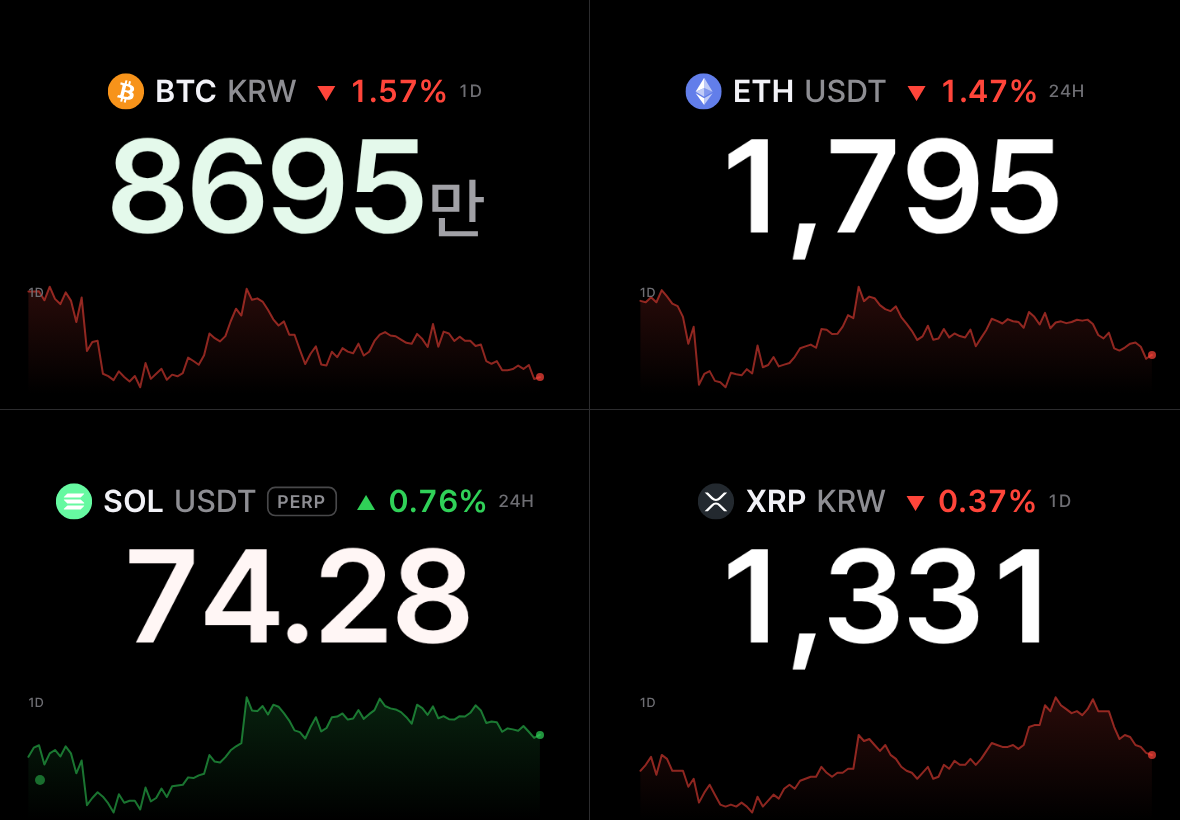
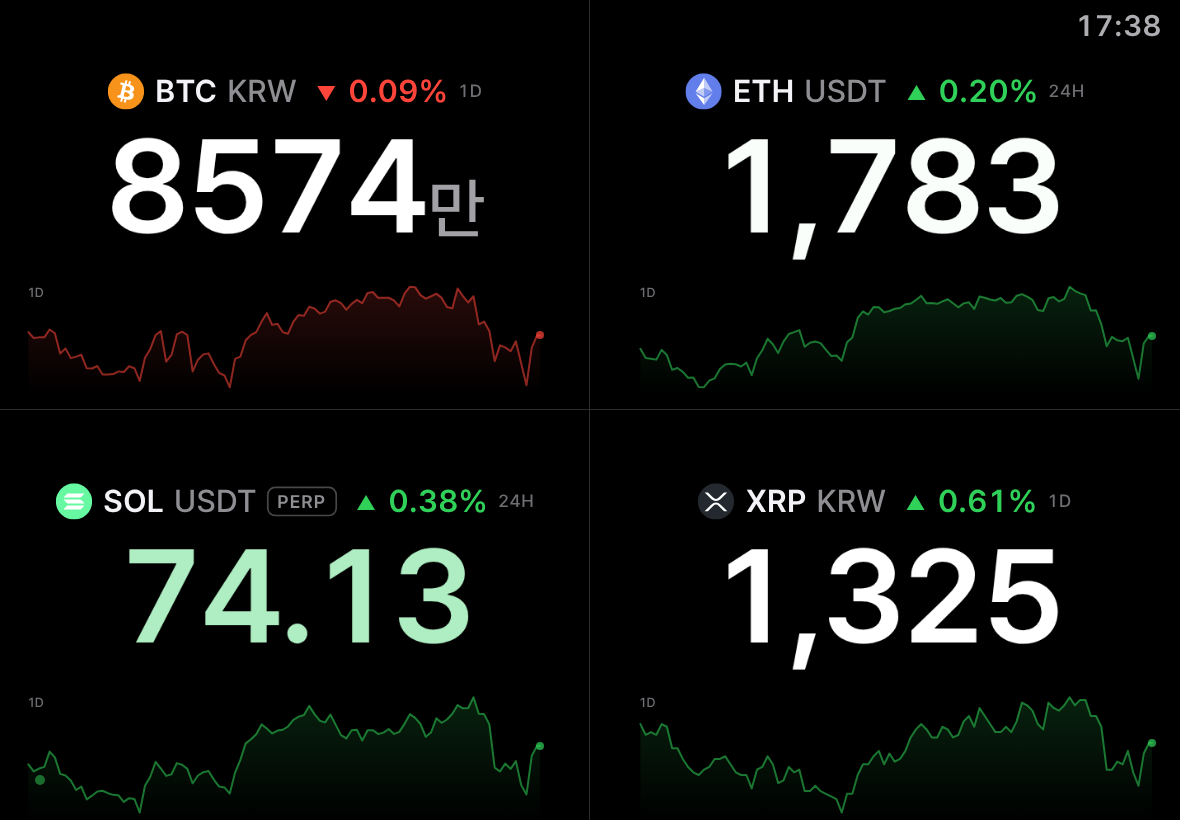
전광판 오른쪽 위에 시계 (0.28.0) (#56)
* A clock in the board's top-right corner (0.28.0)

The time, as hours and minutes in 24-hour form, from the device's own clock
and time zone, renewed on the minute. It sits small in the top-right
corner, in a grey that reads across a room (its size follows the screen's
short side), floats with the board under burn-in protection and dims with
it. A Clock switch in settings, on by default (setting `clock`). A new e2e
scenario checks its place, the minute changing, the float and the switch.
Guide, development notes and screenshots follow.

Claude-Session: https://claude.ai/code/session_014Sd3YL2WJ32HMbCc4VV95J

* Chart test: let the test clock run while waiting on Upbit's turn

The chart scenario waited on real time for things that come only as the
test clock moves (Upbit's candles wait their turn behind its other
requests; the board shows a price at most every three seconds), and on a
slow runner a fixed clock step fell short. untilTicking runs the clock a
second at a time while it waits.

Claude-Session: https://claude.ai/code/session_014Sd3YL2WJ32HMbCc4VV95J

---------

diff --git a/tests/e2e/run.js b/tests/e2e/run.js
@@ -113,6 +113,15 @@ const live = page => page.waitForFunction(() => {
 });
 // waitForFunction treats an async predicate's Promise as truthy at once, so
 // async conditions are polled from here instead.
+// Like until, for a page on the test clock: the clock is run a second at a
+// time while waiting, for what waits its turn behind Upbit's other requests.
+async function untilTicking(page, predicate, arg) {
+  for (let step = 0; step < 60; step += 1) {
+    if (await page.evaluate(predicate, arg)) return;
+    await page.clock.runFor(1000);
+  }
+  throw new Error('Condition not met within 60 seconds of the test clock');
+}
 async function until(page, predicate, arg) {
   for (const deadline = Date.now() + 30000; Date.now() < deadline;) {
     if (await page.evaluate(predicate, arg)) return;
@@ -393,7 +402,7 @@ async function board(browser, base, flags) {
   assert.equal(await brightnessThumb.getAttribute('aria-valuenow'), '50');
   assert.equal(await shownBrightness(page), 'brightness(50%)');
   assert.equal(await text(page, '#brightness-value'), '50%');
-  assert.deepEqual(await saved(page), { assets: [{ currency: 'USDT', ticker: 'ETH' }], columns: 0, brightness: 50, burnIn: true, palette: 'green-red', chart: '1d' });
+  assert.deepEqual(await saved(page), { assets: [{ currency: 'USDT', ticker: 'ETH' }], columns: 0, brightness: 50, burnIn: true, palette: 'green-red', chart: '1d', clock: true });
   // Up and down colours: green and red, or the Korean red and blue.
   const colourOf = id => page.locator(id).evaluate(el => getComputedStyle(el).color);
   await page.waitForFunction(() => getComputedStyle(document.getElementById('change')).color === 'rgb(48, 209, 88)');
@@ -1164,9 +1173,8 @@ async function chart(browser, base) {
   const page = await context.newPage(); const problems = watch(page);
   // The test clock: Upbit's ten seconds between requests pass at once.
   await page.clock.install(); await page.goto(base); await live(page);
-  await page.clock.runFor(12000);
   // On by default, for a day: the chart behind the lower screen, coloured as the change, with its period.
-  await page.locator('#board-chart .spark').waitFor();
+  await untilTicking(page, () => !!document.querySelector('#board-chart .spark'));
   assert.match(asked[0], /candles\/minutes\/15\?market=KRW-BTC&count=97$/);
   // The day's candles rose, but the change shown is -2.50%: the chart takes the change's colour, so the two agree.
   assert.equal(await page.locator('#board-chart .spark').getAttribute('class'), 'spark down');
@@ -1180,20 +1188,17 @@ async function chart(browser, base) {
   assert.equal(await page.locator('#board-chart .spark-point').count(), 1);
   assert.equal(await page.locator('#board-chart .spark-ring').count(), 0, 'no ring before the price moves');
   await page.evaluate(() => sockets.at(-1).quote({ trade_price: 98600000 }));
-  await page.clock.runFor(3100);
-  await page.locator('#board-chart .spark-ring').waitFor({ state: 'attached' });
+  await untilTicking(page, () => !!document.querySelector('#board-chart .spark-ring'));
   assert.deepEqual(await page.locator('#board-chart .spark-ring').evaluate(el => [el.className, el.dataset.strength, getComputedStyle(el).animationName]), ['spark-ring up', '3', 'spark-ring']);
   await page.evaluate(() => sockets.at(-1).quote({ trade_price: 98590000 }));
-  await page.clock.runFor(3100);
-  await until(page, () => document.querySelector('#board-chart .spark-ring')?.className === 'spark-ring down');
+  await untilTicking(page, () => document.querySelector('#board-chart .spark-ring')?.className === 'spark-ring down');
   assert.equal(await page.locator('#board-chart .spark-ring').getAttribute('data-strength'), '1', 'a slight move, a small ring');
   // Another period asks for other candles; off takes the chart away.
   await open(page);
   assert.equal(await chosen(page, '#admin-chart'), '1d');
   assert.deepEqual(await page.locator('#admin-chart [data-value]').allTextContents(), ['끔', '15분', '1시간', '1일', '1주', '1달']);
   await choose(page, '#admin-chart', '1w');
-  await page.clock.runFor(12000);
-  await until(page, () => document.querySelector('#board-chart .spark-label')?.textContent === '7D');
+  await untilTicking(page, () => document.querySelector('#board-chart .spark-label')?.textContent === '7D');
   assert.match(asked.at(-1), /candles\/minutes\/60\?market=KRW-BTC&count=169$/);
   assert.equal((await saved(page)).chart, '1w');
   await choose(page, '#admin-chart', 'off');
@@ -1202,8 +1207,7 @@ async function chart(browser, base) {
   await choose(page, '#admin-chart', '1d');
   await page.locator('#asset-add').click(); await page.locator('#asset-new-confirm').click();
   // The new coin's candles wait their turn behind Upbit's other requests: let the test clock run until they come.
-  for (let step = 0; step < 40 && await page.evaluate(() => document.querySelectorAll('#chart-grid .spark').length) < 2; step += 1) await page.clock.runFor(1000);
-  await until(page, () => document.querySelectorAll('#chart-grid .spark').length === 2);
+  await untilTicking(page, () => document.querySelectorAll('#chart-grid .spark').length === 2);
   assert.ok(await page.evaluate(chartsHold), 'cell charts hold still, below their prices and clear of the lines between cells however the grid floats');
   await page.keyboard.press('Escape');
   await page.screenshot({ path: path.join(evidence, 'chart.png') });
@@ -1246,6 +1250,33 @@ async function lockedStorage(browser, base) {
   assert.deepEqual(problems, []);
   await context.close();
   console.log('PASS locked storage: defaults, live price, unsaved change applies for the session');
+}
+
+async function clockShown(browser, base) {
+  // The time in the top-right corner, from the device's own clock and time zone, renewed on the minute; switched off in settings.
+  const context = await browser.newContext({ viewport: { width: 1180, height: 820 }, timezoneId: 'Asia/Seoul' }); await scripted(context);
+  const page = await context.newPage(); const problems = watch(page);
+  await page.clock.install({ time: new Date('2026-11-19T14:32:50+09:00') });
+  await page.goto(base); await live(page);
+  assert.equal(await text(page, '#clock'), '14:32');
+  const box = await page.locator('#clock').boundingBox();
+  assert.ok(box.x + box.width > 1180 - 80 && box.y < 40, 'top-right corner');
+  const price = await page.locator('#price-main').boundingBox(), head = await page.locator('#board-head').boundingBox();
+  assert.ok(box.y + box.height < head.y && box.y + box.height < price.y, 'clear of the coin line and the price');
+  await page.clock.runFor(15000);
+  assert.equal(await text(page, '#clock'), '14:33', 'renewed on the minute');
+  // It floats with the board when burn-in protection is on.
+  assert.equal(await page.locator('#clock').evaluate(el => el.style.transform.startsWith('translate(')), true);
+  await open(page);
+  assert.equal(await page.locator('#admin-clock').getAttribute('aria-checked'), 'true');
+  await page.locator('#admin-clock').click();
+  assert.equal(await page.locator('#clock').count(), 0);
+  assert.equal((await saved(page)).clock, false);
+  await page.locator('#admin-clock').click();
+  assert.equal(await text(page, '#clock'), '14:33');
+  assert.deepEqual(problems, []);
+  await context.close();
+  console.log('PASS clock: the time in the top-right corner, from the device clock, renewed on the minute, floating with the board, switched off and on in settings');
 }
 
 async function swipeBrightness(browser, base) {
@@ -1517,7 +1548,7 @@ browser.newContext = (options = {}) => newContext({ locale: 'ko-KR', ...options 
 // Scenarios run side by side, a few at a time (E2E_JOBS, default 4), each
 // against its own server. A failure is reported with the scenario's name;
 // the others still run.
-const scenarios = [board, english, help, install, oled, popOut, chart, firstConnection, gridBoard, statusTipOnTouch, swipeBrightness, idleUpdate, lockedStorage, coinList, offlineShell, layouts];
+const scenarios = [board, english, help, install, oled, popOut, chart, firstConnection, gridBoard, statusTipOnTouch, swipeBrightness, clockShown, idleUpdate, lockedStorage, coinList, offlineShell, layouts];
 if (process.env.LIVE_NETWORK === '1') scenarios.push(liveExchanges);
 // E2E_ONLY=chart,board runs just those.
 const only = process.env.E2E_ONLY?.split(',');

diff --git a/tests/unit/settings.test.js b/tests/unit/settings.test.js
@@ -7,7 +7,7 @@ function memory(initial = {}) {
     removeItem: key => { data.delete(key); } };
 }
 const one = (ticker, currency) => ({ assets: [{ currency, ticker }] });
-const defaults = { ...one('BTC', 'USDT'), columns: 0, brightness: 100, burnIn: true, palette: 'green-red', chart: '1d' };
+const defaults = { ...one('BTC', 'USDT'), columns: 0, brightness: 100, burnIn: true, palette: 'green-red', chart: '1d', clock: true };
 test('defaults when storage is empty, missing or throws: Bitcoin on Binance spot', () => {
   assert.deepEqual(createSettings(memory()).get(), defaults);
   assert.deepEqual(createSettings(null).get(), defaults);
@@ -16,15 +16,15 @@ test('defaults when storage is empty, missing or throws: Bitcoin on Binance spot
 });
 test('settings saved before the grid (one coin) are read as one asset; invalid fields are ignored', () => {
   const store = memory({ 'coinboard-settings': JSON.stringify({ ticker: 'eth', currency: 'EUR', brightness: 5 }) });
-  assert.deepEqual(createSettings(store).get(), { ...one('ETH', 'USDT'), columns: 0, brightness: 100, burnIn: true, palette: 'green-red', chart: '1d' });
+  assert.deepEqual(createSettings(store).get(), { ...one('ETH', 'USDT'), columns: 0, brightness: 100, burnIn: true, palette: 'green-red', chart: '1d', clock: true });
   const full = memory({ 'coinboard-settings': JSON.stringify({ ticker: 'XRP', currency: 'USDT', brightness: 55 }) });
-  assert.deepEqual(createSettings(full).get(), { ...one('XRP', 'USDT'), columns: 0, brightness: 55, burnIn: true, palette: 'green-red', chart: '1d' });
+  assert.deepEqual(createSettings(full).get(), { ...one('XRP', 'USDT'), columns: 0, brightness: 55, burnIn: true, palette: 'green-red', chart: '1d', clock: true });
 });
 test('update persists the merged settings', () => {
   const store = memory(); const settings = createSettings(store);
   assert.deepEqual(settings.update({ assets: [{ currency: 'USDT', ticker: 'BTC' }], brightness: 40 }), { saved: true });
-  assert.deepEqual(JSON.parse(store.getItem('coinboard-settings')), { ...one('BTC', 'USDT'), columns: 0, brightness: 40, burnIn: true, palette: 'green-red', chart: '1d' });
-  assert.deepEqual(createSettings(store).get(), { ...one('BTC', 'USDT'), columns: 0, brightness: 40, burnIn: true, palette: 'green-red', chart: '1d' });
+  assert.deepEqual(JSON.parse(store.getItem('coinboard-settings')), { ...one('BTC', 'USDT'), columns: 0, brightness: 40, burnIn: true, palette: 'green-red', chart: '1d', clock: true });
+  assert.deepEqual(createSettings(store).get(), { ...one('BTC', 'USDT'), columns: 0, brightness: 40, burnIn: true, palette: 'green-red', chart: '1d', clock: true });
 });
 test('a failed write still applies for this run', () => {
   const settings = createSettings({ getItem: () => null, setItem() { throw new Error('quota'); }, removeItem() {} });

diff --git a/src/lib/settings.js b/src/lib/settings.js
@@ -36,8 +36,9 @@ function readAssets(list) {
 }
 export function createSettings(storage) {
   // columns: cells per row in the grid; 0 lets the board choose (see PriceBoard).
-  // chart: the period of the line chart beside the change ("off" for none).
-  const settings = { assets: [{ ...DEFAULT_ASSET }], columns: 0, brightness: 100, burnIn: true, palette: "green-red", chart: "1d" };
+  // chart: the period of the chart behind the board ("off" for none).
+  // clock: the time, small, in the board's top-right corner.
+  const settings = { assets: [{ ...DEFAULT_ASSET }], columns: 0, brightness: 100, burnIn: true, palette: "green-red", chart: "1d", clock: true };
   try {
     const saved = JSON.parse(storage.getItem(KEY));
     if (saved && typeof saved === "object") {
@@ -47,6 +48,7 @@ export function createSettings(storage) {
       if (Number.isInteger(saved.columns) && saved.columns >= 0 && saved.columns <= MAX_COLUMNS) settings.columns = saved.columns;
       // On unless it was explicitly switched off.
       settings.burnIn = saved.burnIn !== false;
+      settings.clock = saved.clock !== false;
       // Up/down colours: green and red, or the Korean red and blue.
       if (saved.palette === "red-blue") settings.palette = "red-blue";
       if (CHART_CHOICES.includes(saved.chart)) settings.chart = saved.chart;
@@ -55,12 +57,12 @@ export function createSettings(storage) {
     }
   } catch (error) { /* Unreadable storage: run on defaults. */ }
   function get() {
-    return { assets: settings.assets.map((asset) => ({ ...asset })), columns: settings.columns, brightness: settings.brightness, burnIn: settings.burnIn, palette: settings.palette, chart: settings.chart };
+    return { assets: settings.assets.map((asset) => ({ ...asset })), columns: settings.columns, brightness: settings.brightness, burnIn: settings.burnIn, palette: settings.palette, chart: settings.chart, clock: settings.clock };
   }
   // Callers pass validated values; a failed write still applies for this run.
   function update(patch) {
     if (patch.assets !== undefined) settings.assets = patch.assets.map((asset) => ({ currency: asset.currency, ticker: asset.ticker }));
-    ["columns", "brightness", "burnIn", "palette", "chart"].forEach((key) => {
+    ["columns", "brightness", "burnIn", "palette", "chart", "clock"].forEach((key) => {
       if (patch[key] !== undefined) settings[key] = patch[key];
     });
     try { storage.setItem(KEY, JSON.stringify(settings)); return { saved: true }; }

diff --git a/src/components/SettingsPanel.svelte b/src/components/SettingsPanel.svelte
@@ -19,7 +19,7 @@
   import { Cancel01Icon, Delete02Icon, PlusSignIcon, GithubIcon, DragDropVerticalIcon, Sun01Icon, Sun03Icon, HelpCircleIcon, ArrowLeft01Icon, ArrowUpRight01Icon } from '@hugeicons/core-free-icons';
 
   let { settings, canAdd, ticks, status, wake, versionLabel, updateReady, install = null, installDismissed = false,
-    onInstall = () => {}, onDismissInstall = () => {}, pipSupported = false, pipOpen = false, onPip = () => {}, onClose, onAdd, onRemove, onReorder, onColumns, onBrightnessPreview, onBrightness, onBurnIn, onPalette, onChart = () => {}, onRetryFeed, onRetryWake, onUpdate, loadTickers } = $props();
+    onInstall = () => {}, onDismissInstall = () => {}, pipSupported = false, pipOpen = false, onPip = () => {}, onClose, onAdd, onRemove, onReorder, onColumns, onBrightnessPreview, onBrightness, onBurnIn, onPalette, onChart = () => {}, onClock = () => {}, onRetryFeed, onRetryWake, onUpdate, loadTickers } = $props();
 
   let panel;
   const assetName = item => `${item.ticker} ${EXCHANGES[item.currency].choice}`;
@@ -391,6 +391,10 @@
             <ToggleGroupItem {value} data-value={value} class="h-auto min-h-10 rounded-[10px] px-0.5 py-1.5 text-[14px] font-semibold text-muted-foreground hover:bg-white/[0.06] hover:text-foreground data-[state=on]:bg-white/[0.16] data-[state=on]:text-foreground data-[state=on]:shadow-sm">{label()}</ToggleGroupItem>
           {/each}
         </ToggleGroup>
+      </div>
+      <div class="flex min-h-14 items-center justify-between gap-3 border-b border-border px-4">
+        <label for="admin-clock">{m.clock()}</label>
+        <Switch id="admin-clock" size="lg" checked={settings.clock} onCheckedChange={value => onClock(value)} />
       </div>
       <div class="flex flex-col gap-2 px-4 pt-3 pb-3.5">
         <span id="admin-palette-label">{m.palette()}</span>

diff --git a/src/components/PriceBoard.svelte b/src/components/PriceBoard.svelte
@@ -205,6 +205,17 @@
     return () => { boardObserver.disconnect(); priceObserver.disconnect(); view.removeEventListener('resize', fit); view.removeEventListener('online', retryIcons); };
   });
 
+  // The time, as hours and minutes, renewed on the minute. The device's own clock and time zone.
+  const timeFormat = new Intl.DateTimeFormat(undefined, { hour: '2-digit', minute: '2-digit', hourCycle: 'h23' });
+  let now = $state(timeFormat.format(new Date()));
+  $effect(() => {
+    if (!settings.clock) return;
+    let timer;
+    const next = () => { now = timeFormat.format(new Date()); timer = setTimeout(next, 60000 - Date.now() % 60000 + 50); };
+    next();
+    return () => clearTimeout(timer);
+  });
+
   // Burn-in protection: once a minute pick a new spot close to the centre; the
   // CSS transition makes the move take the whole minute. Switched off, the
   // board sits exactly in the middle.
@@ -282,6 +293,11 @@
       {/if}
     </div>
   </div>
+  <!-- The time, small and quiet in the top-right corner. It floats with the
+       board against burn-in, and is dimmed with it. -->
+  {#if settings.clock}
+    <time id="clock" style:transition={gliding ? null : 'none'} style:transform="translate({offset.x}px, {offset.y}px)">{now}</time>
+  {/if}
   <!-- Brightness: a black veil over the whole board, charts and all. Only its
        opacity changes, which the screen composes without redrawing the board,
        so a brightness swipe follows the finger smoothly. Black over black stays

diff --git a/src/app.css b/src/app.css
@@ -119,6 +119,14 @@ body {
    screen (see PriceBoard.svelte), so these are design pixels, not screen pixels. */
 /* Centred in the usable screen, inside any notch or system bar. */
 #stage { position: fixed; inset: var(--safe-top) var(--safe-right) var(--safe-bottom) var(--safe-left); display: flex; justify-content: center; align-items: center; overflow: hidden; }
+/* The clock: the top-right corner of the board, in a quiet grey that still
+   reads across a room. Its size follows the screen's short side. */
+#clock {
+  position: absolute; top: 1.4vmin; right: 2.2vmin; z-index: 2;
+  font-size: clamp(17px, 3.6vmin, 40px); font-weight: 600; line-height: 1; letter-spacing: 0.02em;
+  font-variant-numeric: tabular-nums; color: #aeaeb2;
+  transition: transform 60s linear; pointer-events: none;
+}
 /* The brightness veil (PriceBoard.svelte): on top of the board, under the controls. */
 #dim { position: absolute; inset: 0; z-index: 10; background: #000; pointer-events: none; will-change: opacity; }
 /* Burn-in protection: the board floats slowly towards a new spot every minute. */

diff --git a/src/App.svelte b/src/App.svelte
@@ -394,6 +394,7 @@
     onBurnIn={burnIn => save({ burnIn })}
     onPalette={palette => save({ palette })}
     onChart={chart => save({ chart })}
+    onClock={clock => save({ clock })}
     onRetryFeed={() => feed.retry()}
     onRetryWake={() => wakeLock.retry()}
     onUpdate={() => updater.reload()}

diff --git a/docs/guide.ko.md b/docs/guide.ko.md
@@ -162,6 +162,8 @@ Coinboard는 코인 시세를 크게 띄워 두는 전광판입니다. 아이패
 
 **그래프**: 기간 동안의 가격을 화면(여러 자산이면 칸) 아래쪽 배경에 옅은 선과 채움으로 그립니다. 가격 글자를 가리지 않도록 가격 아래쪽에 깔립니다. **끔**, **15분**, **1시간**, **1일**(기본), **1주**, **1달** 중에서 고릅니다. 거래소의 과거 시세(봉)로 그리고 마지막 점은 실시간 가격입니다. 색은 위의 등락률과 같습니다(등락 색 설정을 따름). 그래프 끝의 작은 점이 실시간 가격이고, 가격이 바뀔 때마다 이 점에서 파동이 퍼집니다. 많이 움직일수록 크고 오래 퍼집니다. 그래프 모양과 등락률의 기준 시점이 조금 달라도 색이 서로 어긋나지 않습니다. 전광판에는 기간이 그래프 왼쪽 위에 `15M`, `1H`, `1D`, `7D`, `30D`로 적힙니다. 업비트·빗썸의 등락률은 전일 종가 대비이고 `1D` 그래프는 최근 24시간이라, 둘의 방향이 다를 수 있습니다. 과거 시세를 받을 수 없는 경우(차단 지역의 바이낸스 선물·바이비트 등)에는 그래프가 나오지 않습니다. 코인원은 과거 시세를 웹페이지에 내주지 않아 그래프가 없습니다. 업비트는 브라우저의 요청을 10초에 한 번만 받기 때문에, 업비트 그래프는 시세가 뜬 뒤 10초 남짓 간격으로 하나씩 나타납니다.
 
+**시계**: 전광판 오른쪽 위 구석에 지금 시각을 `14:32`처럼 24시간제로 작게 보여 줍니다(기기 시계와 시간대를 따름). 1분마다 바뀌고, 번인 방지가 켜져 있으면 전광판과 함께 조금씩 움직이며, 밝기를 낮추면 함께 어두워집니다. 기본으로 켜져 있고, 여기서 끌 수 있습니다.
+
 **등락 색**: 실제 색으로 그린 견본 두 개 중에서 누릅니다. `초록 · 빨강`(상승 초록, 하락 빨강) 또는 한국식 `빨강 · 파랑`(상승 빨강, 하락 파랑).
 
 **맨 아래**: 앱 아이콘과 이름, 버전, **사용법**을 여는 물음표, 소스 코드로 가는 GitHub 아이콘. 사용법은 이 설명서를 줄인 앱 안의 안내(설정 열기, 상태 점, 여러 자산, 전광판 읽기, 켜 두고 쓰기)이고, 이 설명서로 가는 링크가 있습니다. 위쪽 화살표를 누르면 설정으로 돌아갑니다.

diff --git a/docs/guide.md b/docs/guide.md
@@ -162,6 +162,8 @@ Switched off, the board looks as it always did.
 
 **Chart**: the price over a period, as a faint line and fill across the lower part of the screen (of each cell, with several assets), below the price so as not to cover it: **Off**, **15m**, **1h**, **1d** (the default), **1w** or **1mo**. It is drawn from the exchange's own candles and ends at the live price; it takes the color of the change above it (in the up/down colors chosen), and a small point at its end marks the live price, sending out a ring each time the price changes, wider and longer the bigger the move; so the two never disagree even where the chart's period and the change's reference differ a little. The board writes the period at the chart's top left: `15M`, `1H`, `1D`, `7D`, `30D`. On Upbit and Bithumb the change is against the previous day's close while a `1D` chart covers the last 24 hours, so the two can point different ways. Where an exchange's past prices cannot be had (Binance futures or Bybit in a restricted region), its chart is simply not shown. Coinone does not give web pages its past prices, so its coins have no chart. Upbit lets a browser ask it something only once every ten seconds, so Upbit charts appear one by one, about ten seconds apart, after the prices.
 
+**Clock**: the time in the board's top-right corner, small, in 24-hour form (`14:32`), from the device's own clock and time zone. It changes on the minute, floats with the board when burn-in protection is on, and dims with it. On by default; switch it off here.
+
 **Up/Down Colors**: two samples drawn in their own colors: **Green · Red** (up green, down red) or the Korean convention **Red · Blue** (up red, down blue).
 
 **At the bottom**: the app's icon, name and version, a question mark for **Help**, and a GitHub icon linking to the source code. Help is a short version of this guide inside the app (opening settings, the status dot, several assets, reading the board, keeping it on), with a link to this guide; the arrow at the top goes back to settings.

diff --git a/docs/development.md b/docs/development.md
@@ -44,6 +44,7 @@ Svelte 5 and Vite. It is a single page, so there is no SvelteKit.
 | `src/lib/pace.js` | Spacing of requests to an exchange (shared by price connections and coin lists) |
 | `src/lib/steady.js` | One three-second beat for the whole board |
 | `src/lib/history.js` | Past prices for the line chart: the period's candle size, asking each exchange (`candles` in its definition) in turn with its price connection (the pacer: Upbit refuses a browser's second request within 10 seconds, candles included), at most every 10 minutes; `extend` carries a chart along with the live price in between |
+| Clock (`#clock` in `PriceBoard.svelte`) | The time in the top-right corner: the device's clock and time zone, 24-hour, renewed on the minute. It takes the board's float and sits under the brightness veil. Setting `clock` (on by default) |
 | `src/lib/swipe-brightness.js` | Brightness by swiping: one finger drawn up brightens, down dims (60% of the screen's height is the whole 10-100% range, in steps of 5), shown as a sun and the level on a soft shade in the middle (`#brightness-hud`, not dimmed with the board, and covering nothing else, so the board shows the brightness it will keep). It starts after 8px, and not for a mostly sideways drag; a second finger or a cancelled touch puts the brightness back; a drag that starts on the controls or the panel is not one. Zoom is refused with `touch-action: none` (the panel `pan-y`), a `user-scalable=no` viewport, and iOS's `gesturestart` refused. Brightness itself is the opacity of a black veil over the board (`#dim`), not a filter, so changing it redraws nothing |
 | `src/components/Spark.svelte` | The line chart behind the lower board |
 | `src/lib/move.js` | The size of a price move (faint, normal, full tint) |
